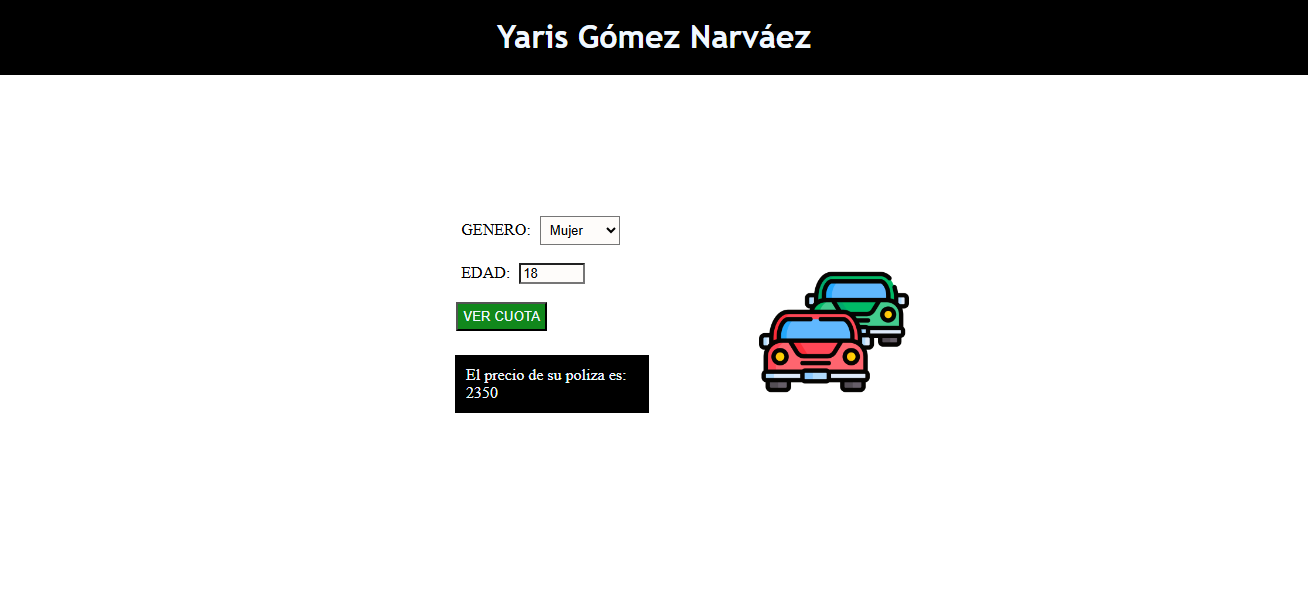
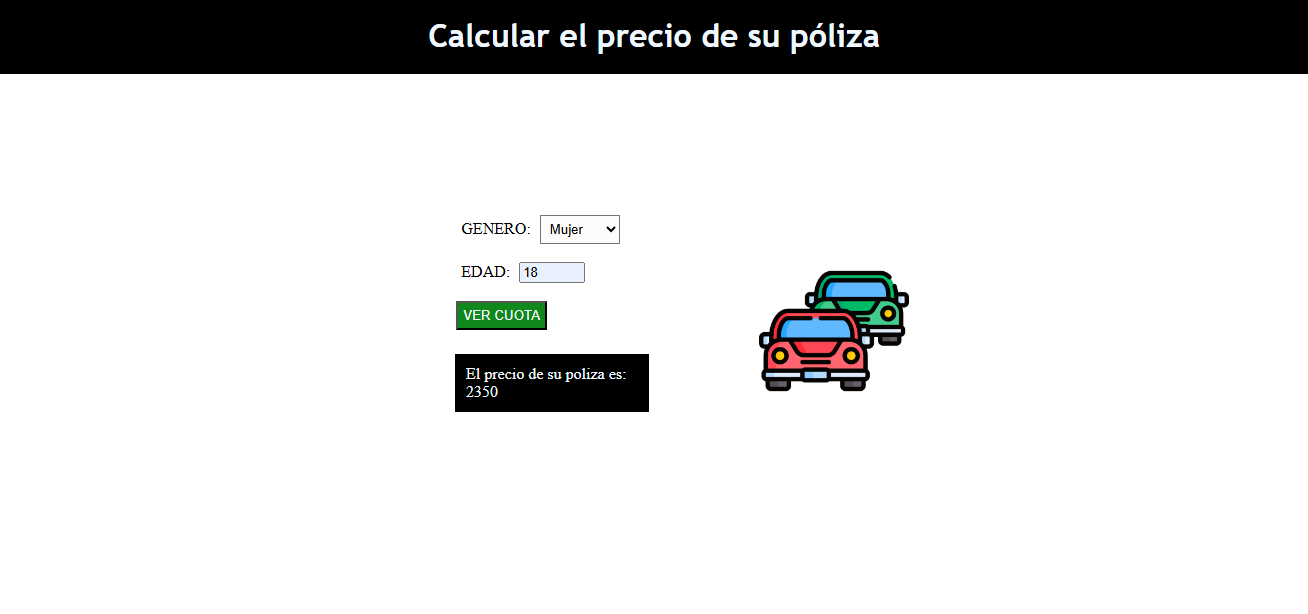
imagen

Changed region(s): [[0.0, 0.031, 1.0, 0.124], [0.3364, 0.3409, 0.4893, 0.6819], [0.581, 0.4339, 0.7034, 0.6509]]

diff --git a/Taller de cuotas de autos 1/index.html b/Taller de cuotas de autos 1/index.html
@@ -9,7 +9,7 @@
     <link rel="stylesheet" href="css/style.css">    
 </head>
 <body>
-    <h1>Yaris Gómez Narváez</h1>
+    <h1>Calcular el precio de su póliza</h1>
 
     <div>
         <form>
